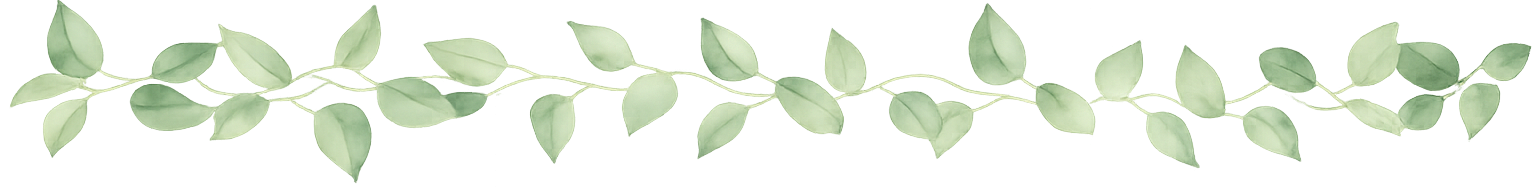
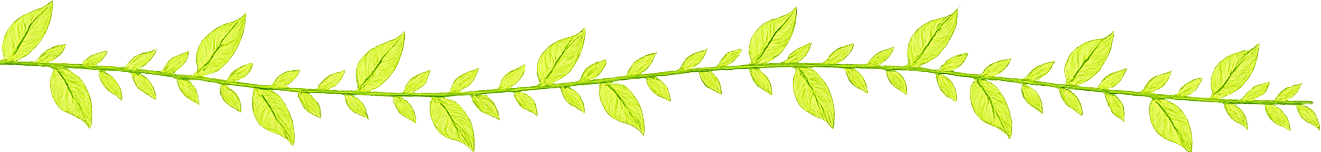
Added final changes

diff --git a/assets/style.css b/assets/style.css
@@ -651,15 +651,17 @@ article.about {
 .leaf-divider {
   border: none;
   margin: 1.5rem 0;
-  display: flex;
-  justify-content: center;
+  width: 100%;
+  height: 3rem;
+  overflow: visible;
 }
 
 .leaf-divider img {
-  width: 100%;
-  height: 2rem;
-  object-fit: contain;
+  width: 95%;
+  height: 100%;
+  object-fit: fill;
   display: block;
+  filter: brightness(0.8) saturate(0.6);
 }
 
 .about-section {

diff --git a/team.html b/team.html
@@ -26,7 +26,9 @@
         <h1>The team</h1>
       </div>
 
-      <hr class="leaf-divider" aria-hidden="true">
+      <div class="leaf-divider" aria-hidden="true">
+        <img src="leaf_divider.png" alt="Leaf divider">
+    </div>
 
       <ul class="roster">
 
@@ -68,7 +70,9 @@
 
       </ul>
 
-      <hr class="leaf-divider" aria-hidden="true">
+      <div class="leaf-divider" aria-hidden="true">
+        <img src="leaf_divider.png" alt="Leaf divider">
+    </div>
 
       <section class="join" aria-labelledby="join-heading">
         <h2 id="join-heading">Joining the roster</h2>

diff --git a/about.html b/about.html
@@ -60,6 +60,10 @@
       </section>
 
     </article>
+
+    <div class="leaf-divider" aria-hidden="true">
+        <img src="leaf_divider.png" alt="Leaf divider">
+    </div>
   </main>
 
   <footer>